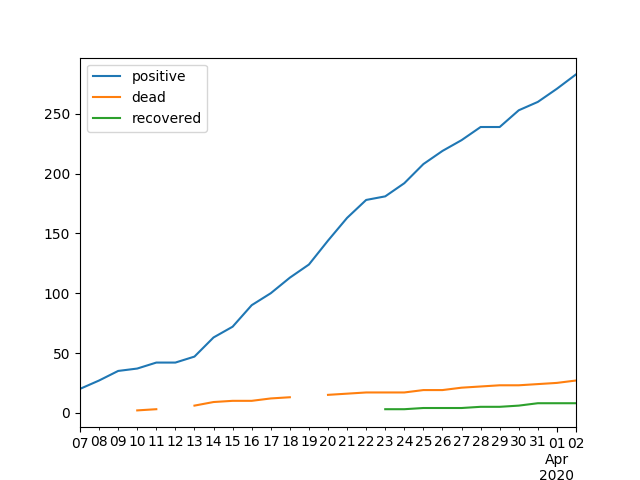
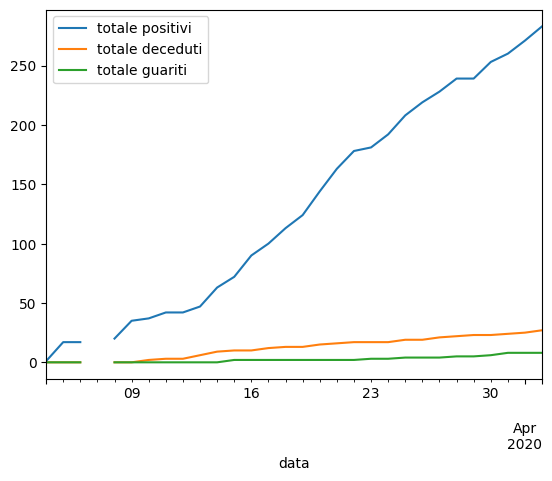
Refactoring
Avoid NA when possible.
Legend labels are in Italian.
Fix image size.

diff --git a/COVID-19/analysis.py b/COVID-19/analysis.py
@@ -6,16 +6,15 @@ df.sort_values(by=['timestamp'],inplace=True,ascending=True)
 
 df.plot()
 
-df['positive'] = df['delta_positive_yesterday'].cumsum()
-df['dead'] = df['delta_death_yesterday'].cumsum()
-#print(df.index)
-#print(df.info(verbose=True))
+df['positive'] = df['delta_positive_from_yesterday'].cumsum()
+df['dead'] = df['delta_death_from_yesterday'].cumsum()
 
-df2 = df[['positive','dead','recovered']]
+
+df2 = df[['positive','dead','total_recovered']]
 df2.index = df.index
-
-
-df2.plot()
-plt.savefig('COVID-19.png')
+ax2 = df2.plot()
+ax2.set_xlabel('data')
+ax2.legend(['totale positivi','totale deceduti','totale guariti'])
+ax2.figure.savefig('COVID-19.png',bbox_inches='tight')
 
 plt.show()
